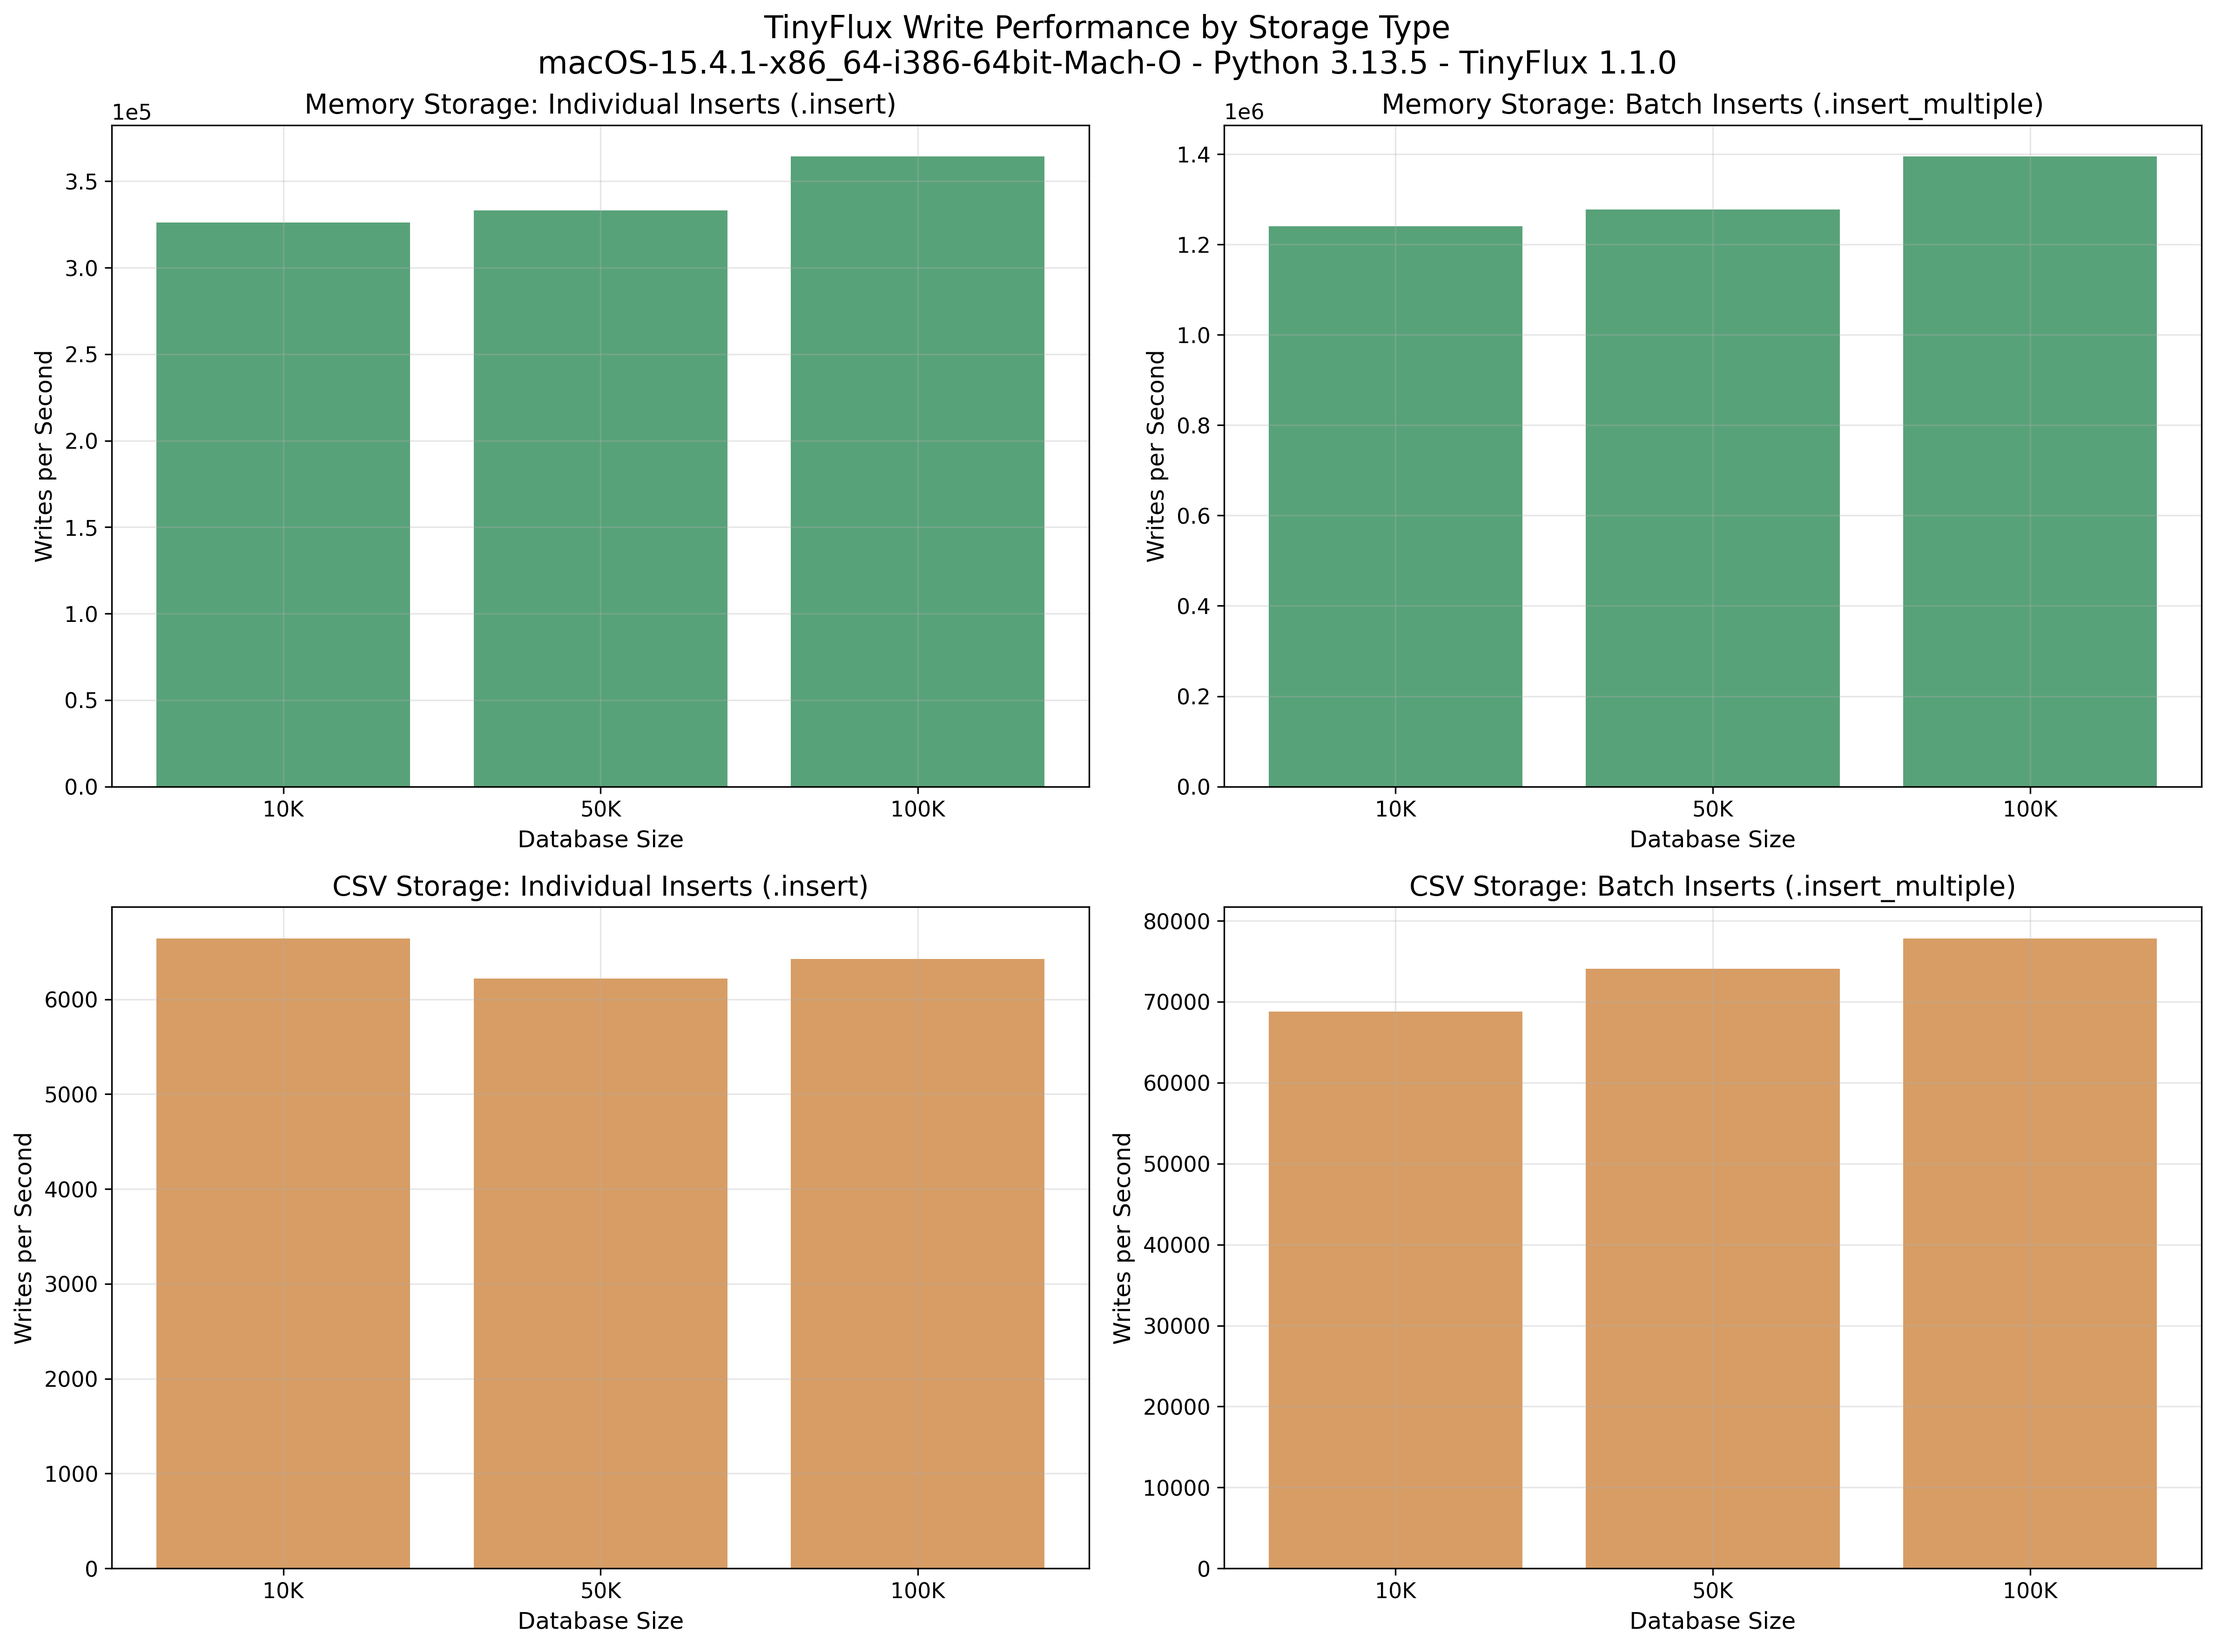
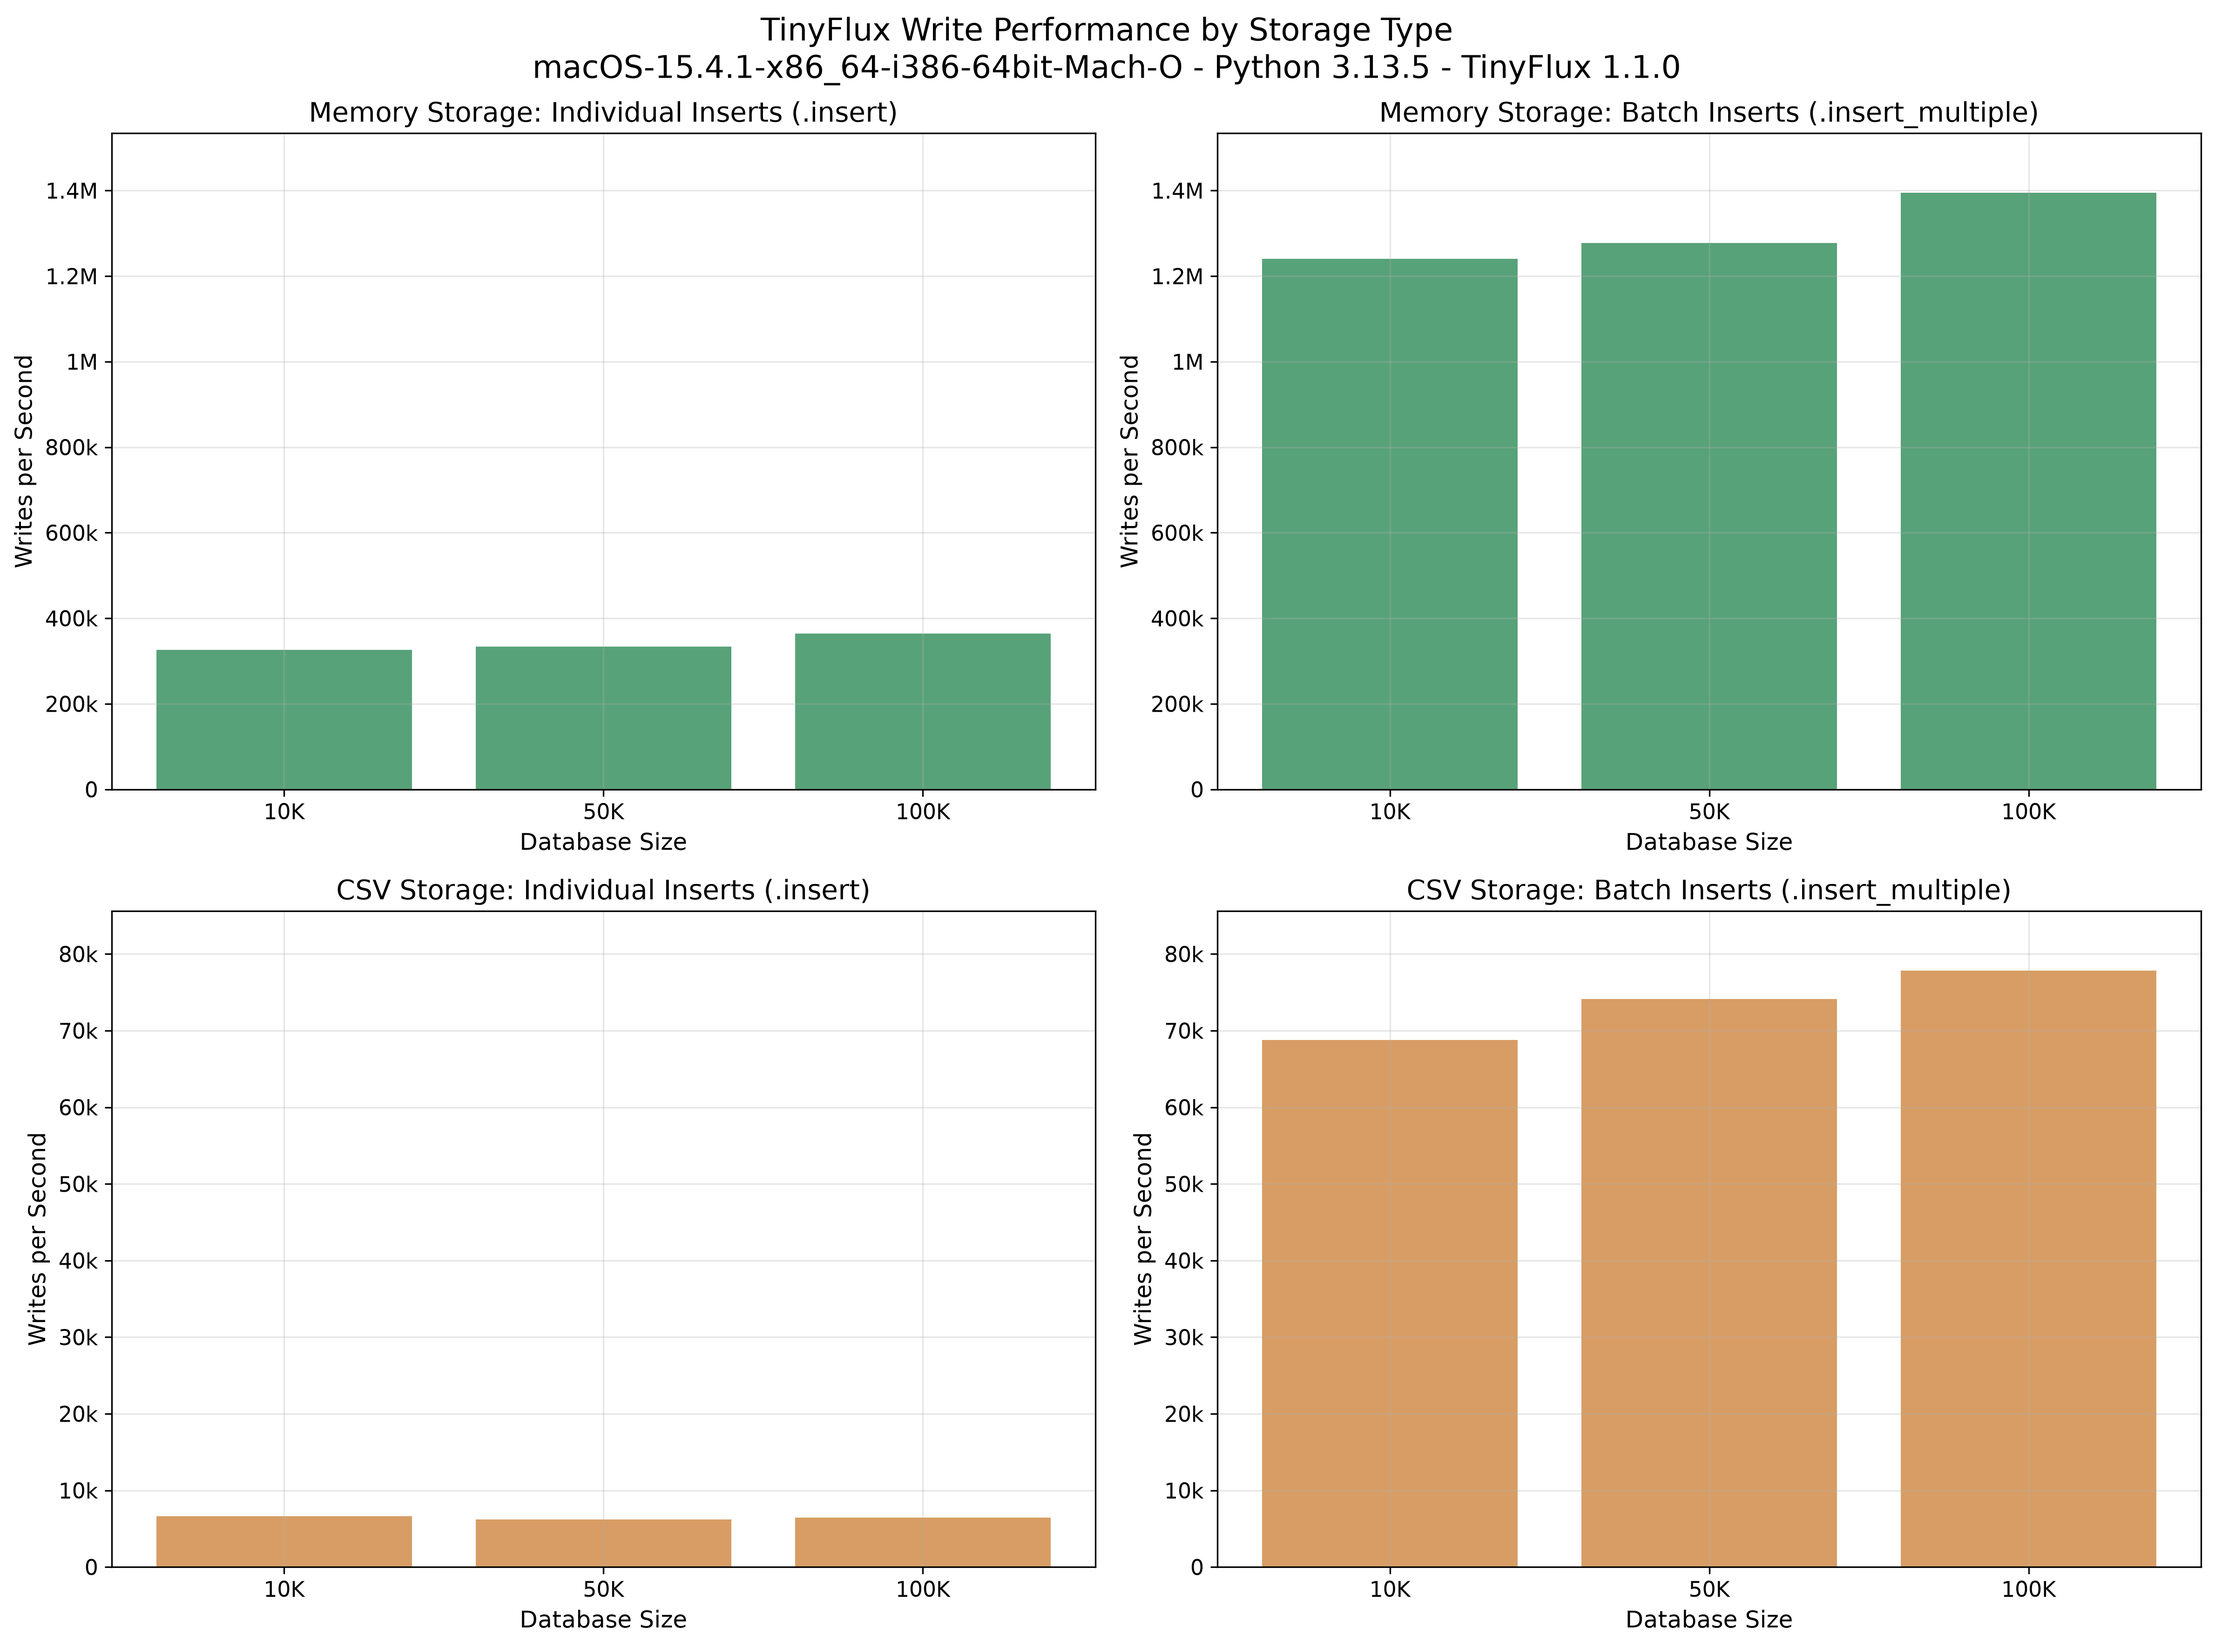
docs: improve write performance chart axes

diff --git a/performance_tests/visualize_performance.py b/performance_tests/visualize_performance.py
@@ -4,9 +4,11 @@ TinyFlux Performance Visualization
 
 Generates performance charts from benchmark results JSON file.
 """
+
 import json
 import matplotlib.pyplot as plt
 import matplotlib.patches as mpatches
+from matplotlib.ticker import FuncFormatter
 import numpy as np
 from typing import Dict, List, Any
 import os
@@ -18,6 +20,32 @@ plt.rcParams["font.size"] = 11
 plt.rcParams["axes.labelsize"] = 12
 plt.rcParams["axes.titlesize"] = 14
 plt.rcParams["legend.fontsize"] = 10
+
+
+def format_compact_number(value: float, _position: int) -> str:
+    """Format chart ticks with compact units instead of scientific notation."""
+    if value == 0:
+        return "0"
+
+    abs_value = abs(value)
+    if abs_value >= 1_000_000:
+        scaled = value / 1_000_000
+        return f"{scaled:g}M"
+    if abs_value >= 1_000:
+        scaled = value / 1_000
+        return f"{scaled:g}k"
+
+    return f"{value:g}"
+
+
+def set_shared_row_axis(*axes_and_values: Any) -> None:
+    """Use one y-axis range and compact tick labels for a row of charts."""
+    max_value = max(max(values, default=0) for _, values in axes_and_values)
+    y_max = max_value * 1.1 if max_value > 0 else 1
+
+    for axis, _ in axes_and_values:
+        axis.set_ylim(0, y_max)
+        axis.yaxis.set_major_formatter(FuncFormatter(format_compact_number))
 
 
 def load_results(file_path: str = "performance_results.json") -> Dict[str, Any]:
@@ -164,7 +192,6 @@ def plot_write_performance_scaling(
     ax1.set_xticks(x_pos)
     ax1.set_xticklabels(size_labels)
     ax1.grid(True, alpha=0.3)
-    ax1.ticklabel_format(style="scientific", axis="y", scilimits=(0, 0))
 
     # Chart 2: Memory Batch Writes
     ax2.bar(x_pos, write_data["memory_batch"], color="#2E8B57", alpha=0.8)
@@ -174,7 +201,6 @@ def plot_write_performance_scaling(
     ax2.set_xticks(x_pos)
     ax2.set_xticklabels(size_labels)
     ax2.grid(True, alpha=0.3)
-    ax2.ticklabel_format(style="scientific", axis="y", scilimits=(0, 0))
 
     # Chart 3: CSV Individual Writes
     csv_individual_filtered = [
@@ -209,6 +235,15 @@ def plot_write_performance_scaling(
     ax4.set_xticks(x_pos)
     ax4.set_xticklabels(size_labels)
     ax4.grid(True, alpha=0.3)
+
+    set_shared_row_axis(
+        (ax1, write_data["memory_individual"]),
+        (ax2, write_data["memory_batch"]),
+    )
+    set_shared_row_axis(
+        (ax3, csv_individual_filtered),
+        (ax4, write_data["csv_batch"]),
+    )
 
     # Add system info
     system_info = results.get("system_info", {})
